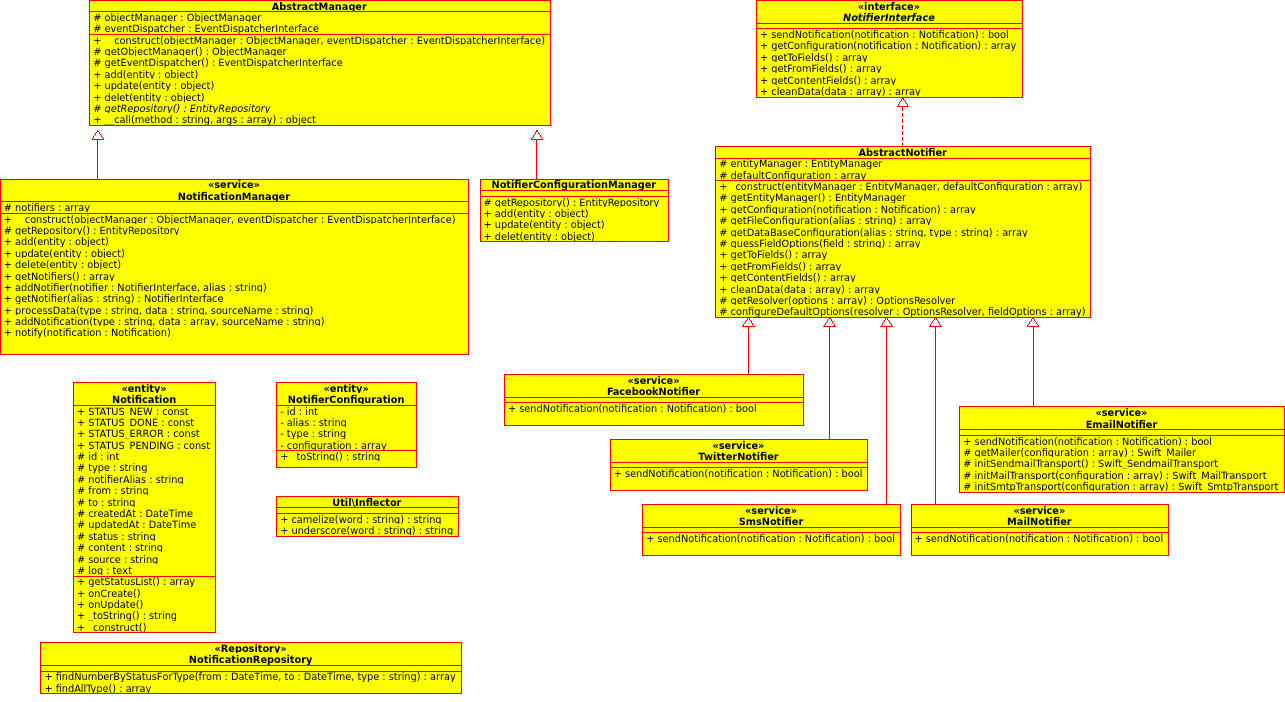
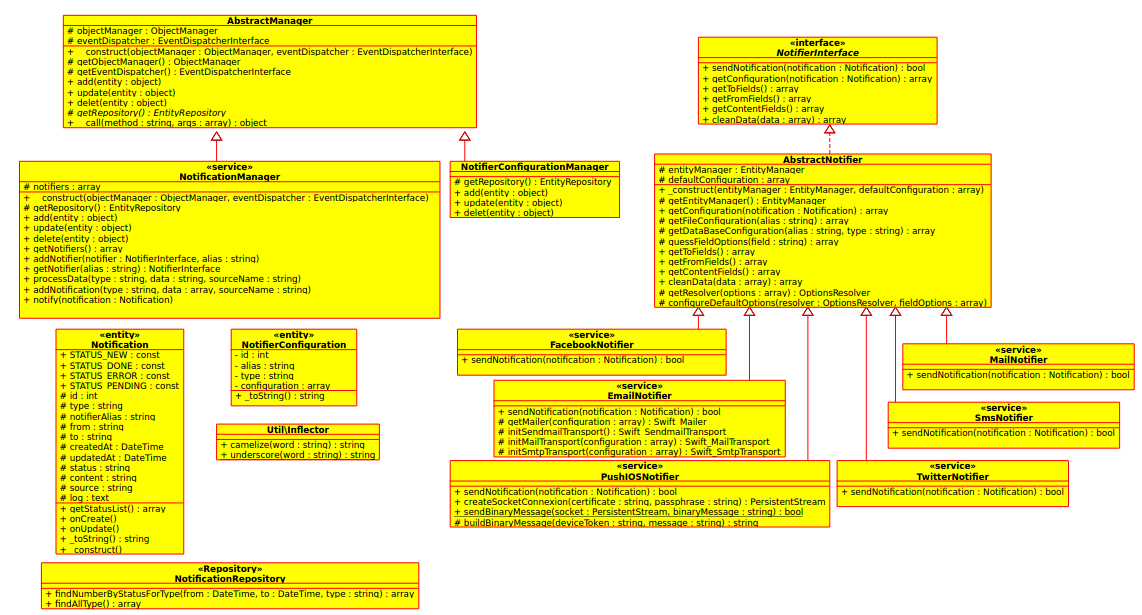
Update documentation

diff --git a/Resources/doc/configuration_reference.md b/Resources/doc/configuration_reference.md
@@ -72,7 +72,7 @@ Add an mail notifier configuration in `app/config/config.yml` :
 ```yml
 idci_notification:
     notifiers:
-        email:
+        mail:
             default_configuration: default
             configurations:
                 default:
@@ -98,7 +98,7 @@ Add an facebook notifier configuration in `app/config/config.yml` :
 ```yml
 idci_notification:
     notifiers:
-        email:
+        facebook:
             default_configuration: default
             configurations:
                 default:
@@ -112,24 +112,24 @@ Twitter
 ### Parameters :
 | Parameter                 | Type    | Required | Valide values
 |---------------------------|---------|----------|--------------
-| consumer_key              | string  | yes      | string value
-| consumer_secret           | string  | yes      | string value
-| oauth_access_token        | string  | yes      | string value
-| oauth_access_token_secret | string  | yes      | string value
+| consumerKey               | string  | yes      | string value
+| consumerSecret            | string  | yes      | string value
+| oauthAccessToken          | string  | yes      | string value
+| oauthAccessTokenSecret    | string  | yes      | string value
 
 ### Configuration
 Add an twitter notifier configuration in `app/config/config.yml` :
 ```yml
 idci_notification:
     notifiers:
-        email:
+        twitter:
             default_configuration: default
             configurations:
                 default:
-                    consumer_key:              'your_consumer_key'
-                    consumer_secret:           'your_consumer_secret'
-                    oauth_access_token:        'your_oauth_access_token'
-                    oauth_access_token_secret: 'your_oauth_access_token_secret'
+                    consumerKey:            'your_consumer_key'
+                    consumerSecret:         'your_consumer_secret'
+                    oauthAccessToken:       'your_oauth_access_token'
+                    oauthAccessTokenSecret: 'your_oauth_access_token_secret'
 ```
 #### Note 1 : What you have to do to obtain twitter configuration :
 - Make sure that you have a twitter account. If not, create it one : [create_twitter_account](https://twitter.com/signup).
@@ -140,6 +140,28 @@ idci_notification:
 1. Associate a phone number to your twitter account : use the twitter application on smartphone to do this.
 2. Return to your [application](https://apps.twitter.com/), change permission into `Read, Write and Access direct messages`(in Permission section) and regenerate your access token (in API keys section).
 3. Return to your twitter account and check parameters, you should see your application.
+
+Push iOS
+--------
+
+### Parameters :
+| Parameter   | Type    | Required | Valide values
+|-------------|---------|----------|--------------
+|certificate  | string  | yes      | string value
+|passphrase   | string  | yes      | string value
+
+### Configuration
+Add a push iOS notifier configuration in `app/config/config.yml` :
+```yml
+idci_notification:
+    notifiers:
+        push_ios:
+            default_configuration: default
+            configurations:
+                default:
+                    certificate: '\/path\/of\/your\/certificate_file.pem'
+                    passphrase:  'your_passphrase'
+```
 
 More informations
 -----------------
@@ -218,8 +240,14 @@ idci_notification:
             default_configuration: default
             configurations:
                 default:
-                    consumer_key:              'your_consumer_key'
-                    consumer_secret:           'your_consumer_secret'
-                    oauth_access_token:        'your_oauth_access_token'
-                    oauth_access_token_secret: 'your_oauth_access_token_secret'
+                    consumerKey:            'your_consumer_key'
+                    consumerSecret:         'your_consumer_secret'
+                    oauthAccessToken:       'your_oauth_access_token'
+                    oauthAccessTokenSecret: 'your_oauth_access_token_secret'
+        push_ios:
+            default_configuration: default
+            configurations:
+                default:
+                    certificate: '\/path\/of\/your\/certificate_file.pem'
+                    passphrase:  'your_passphrase'
 ```

diff --git a/Resources/doc/api/notification/post_notifications.md b/Resources/doc/api/notification/post_notifications.md
@@ -20,6 +20,7 @@ Create one notification
 | mail       | true     |         |              | Mail data
 | sms        | true     |         |              | Sms data
 | twitter    | true     |         |              | Twitter data
+| pushIOS    | true     |         |              | PushIOS data
 
 ### source_name
 To associate a source name with the notifications, the source name parameter is optional.
@@ -342,6 +343,68 @@ twitter=[
         "notifierAlias" : "my_twitter_alias",
         "content": {
             "status" : "The message to be sent."
+        }
+    }
+]
+```
+### Push iOS
+
+#### Field "notifierAlias" :
+
+| Optional | Requirements | Description
+|----------|--------------|------------
+| true     | string value | The notifier alias used to define a configuration
+
+#### Field "to" :
+
+| Subfield    | Optional | Requirements | Description
+|-------------|----------|--------------|------------
+| deviceToken | false    | string value | The token used to identify an android device
+
+#### Field "from" :
+
+| Subfield               | Optional | Requirements | Description
+|------------------------|----------|--------------|------------
+| certificate            | true     | string value | The path of the certificate
+| passphrase             | true     | string value | The passphrase of the certificate
+
+#### Field "content" :
+
+| Subfield    | Optional | Requirements | Description
+|-------------|----------|--------------|------------
+| message     | true     | string value | The push iOS message data
+
+#### Case 1 : notification with notifier parameters
+```
+pushIOS=[
+    {
+        "to": {
+            "deviceToken": "your_device_token"
+        },
+        "from": {
+            "certificate": {
+                "path": "/path/to/the/certificate_file.pem",
+                "file": null
+            },
+            "passphrase": "your_passphrase"
+        },
+        "content": {
+            "message": "The message to be sent."
+        }
+    }
+]
+```
+#### Case 2 : notification without notifier parameters
+
+```
+pushIOS=[
+    {
+        "notifierAlias" : "my_push_ios_alias",
+        "to": {
+            "deviceToken": "your_device_token"
+        },
+        "content": {
+            "message": "The message to be sent."
         }
     }
 ]

diff --git a/Resources/doc/notification_service.md b/Resources/doc/notification_service.md
@@ -69,6 +69,7 @@ There are five notifier types.
 | mail     | mailNotifier     | 10%
 | facebook | facebookNotifier | 10%
 | twitter  | twitterNotifier  | 10%
+| push_ios | PushIOSNotifier  | 100%
 
 Notifier UML schema:
 
